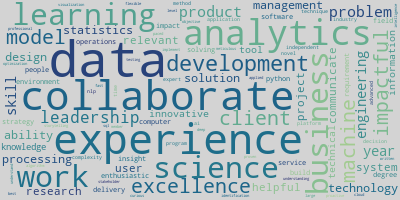
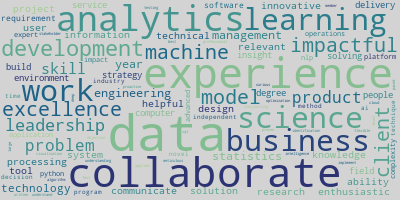
corrected omission of masters from the ds_cred_list

diff --git a/nlp_main.py b/nlp_main.py
@@ -2524,6 +2524,7 @@ def nlp_skill_lists(additional_stopwords):
                      'knowledge',
                      'linkedin',
                      'major',
+                     'masters',
                      'mathematics',
                      'mba',
                      'mpp',
@@ -3641,3 +3642,4 @@ del start_time, end_time
 # e = df_jobs['job_description'].explode()
 # df_jobs[ds_cred_terms] = pd.concat([e.eq(t).rename(t) for t in ds_cred_terms], axis=1).groupby(level=0).any()
 # print(time.time() - start_time)
+
